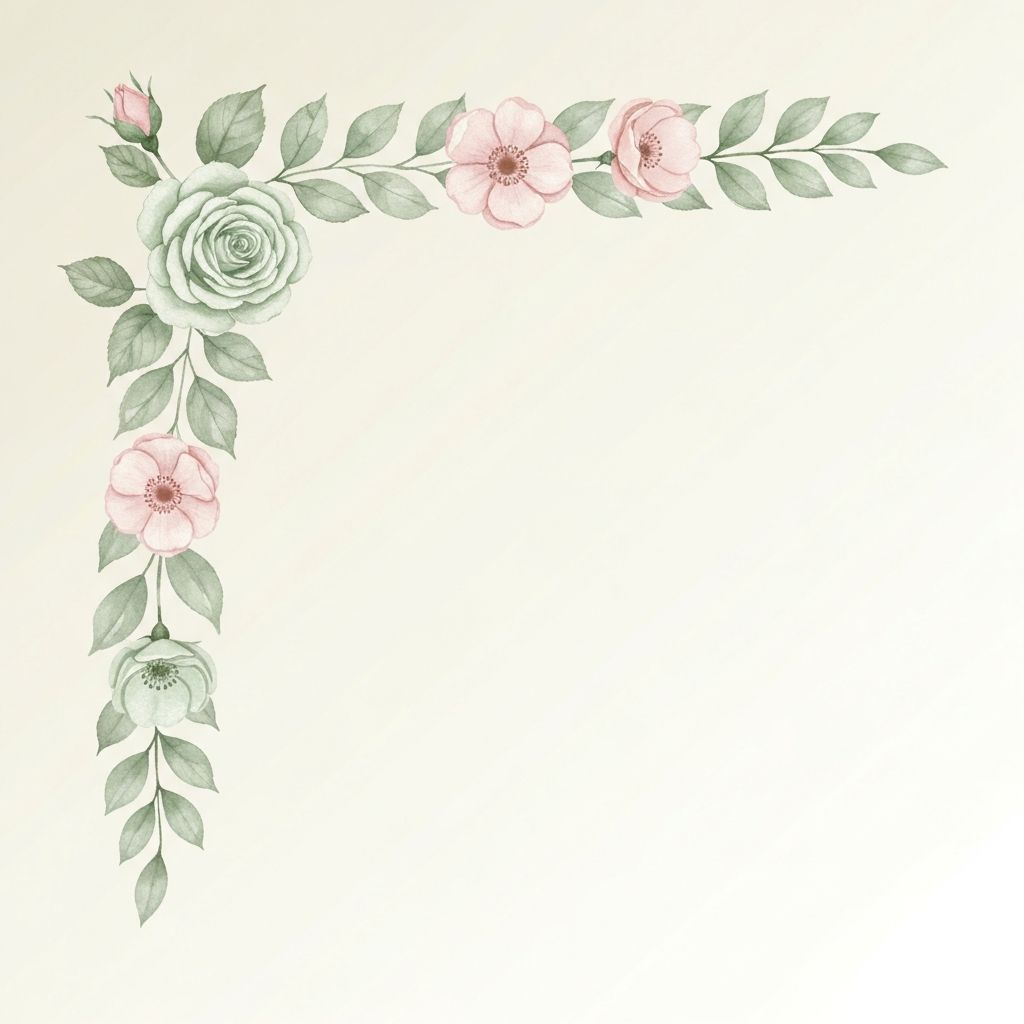
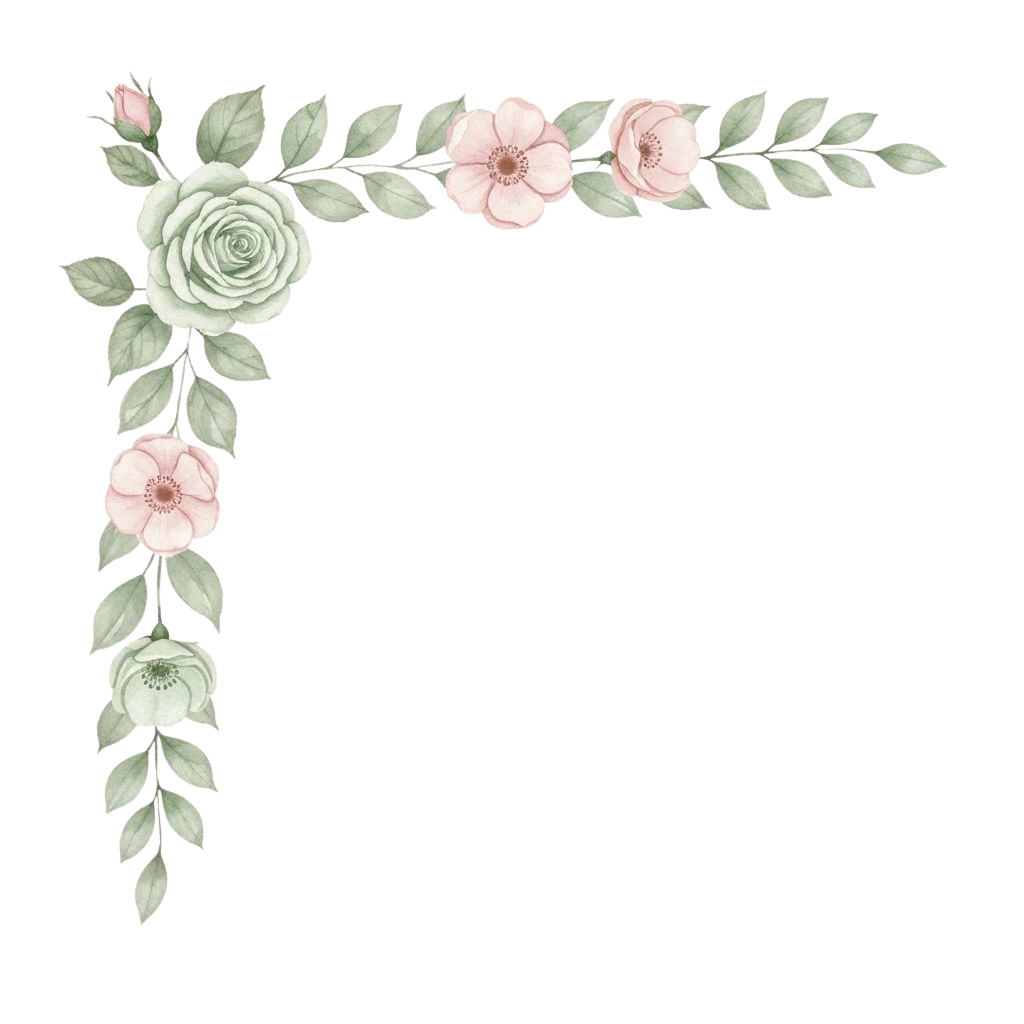
some fix

diff --git a/app/page.tsx b/app/page.tsx
@@ -186,16 +186,16 @@ export default function VotingPage() {
   return (
     <div className="min-h-screen bg-gradient-to-br from-background via-background to-muted/30 relative overflow-hidden">
       {/* Decorative Floral Elements */}
-      <div className="fixed top-0 left-0 w-64 h-64 opacity-[0.15] pointer-events-none">
+      <div className="fixed top-0 left-0 w-64 h-64 opacity-[0.7] pointer-events-none">
         <img src="/floral-corner.png" alt="" className="w-full h-full object-contain" />
       </div>
-      <div className="fixed top-0 right-0 w-64 h-64 opacity-[0.15] pointer-events-none transform scale-x-[-1]">
+      <div className="fixed top-0 right-0 w-64 h-64 opacity-[0.7] pointer-events-none transform scale-x-[-1]">
         <img src="/floral-corner.png" alt="" className="w-full h-full object-contain" />
       </div>
-      <div className="fixed bottom-0 left-0 w-80 h-80 opacity-[0.12] pointer-events-none transform scale-y-[-1]">
+      <div className="fixed bottom-0 left-0 w-80 h-80 opacity-[0.3] pointer-events-none transform scale-y-[-1]">
         <img src="/floral-corner.png" alt="" className="w-full h-full object-contain" />
       </div>
-      <div className="fixed bottom-0 right-0 w-80 h-80 opacity-[0.12] pointer-events-none transform scale-[-1]">
+      <div className="fixed bottom-0 right-0 w-80 h-80 opacity-[0.3] pointer-events-none transform scale-[-1]">
         <img src="/floral-corner.png" alt="" className="w-full h-full object-contain" />
       </div>
       
